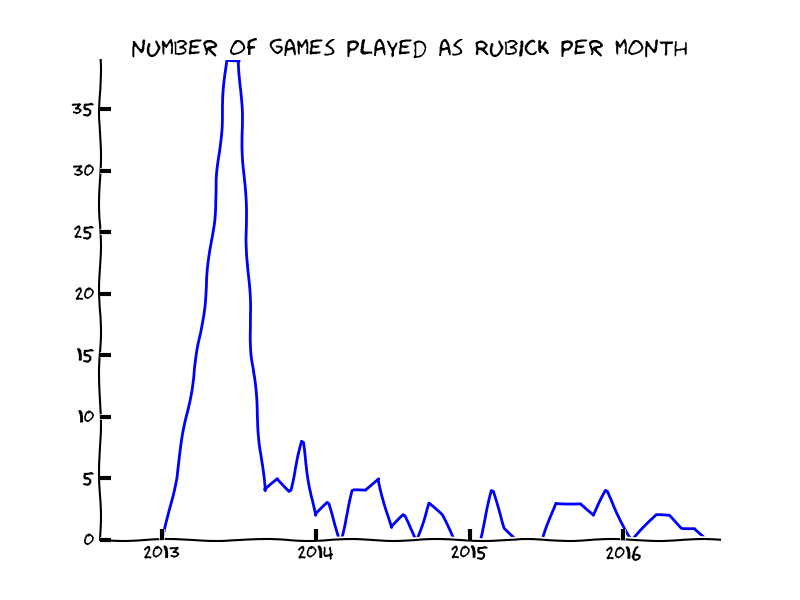
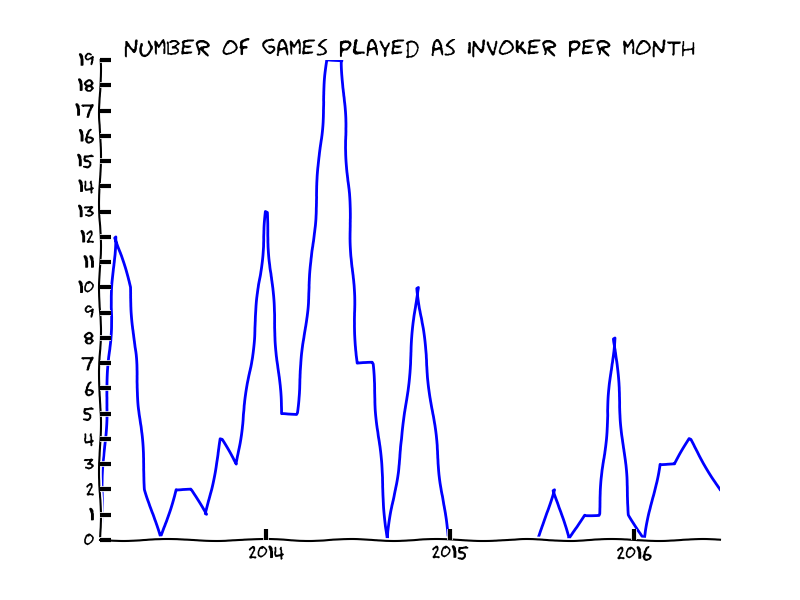
finish porting on yasp api

diff --git a/cogs/utils/stats_related.py b/cogs/utils/stats_related.py
@@ -37,23 +37,54 @@ def time_diff(start_time):
 
 
 def my_winrate_with_player_on(player_id1, player_id2, hero_id):
-        args = {
-                'players': {
-                    '$elemMatch': {"account_id": player_id2, "hero_id": hero_id}
-                },
-                'players.account_id': player_id1
-                }
-        hist = db.get_match_list(args)
-        k = 0
-        for i, game in enumerate(hist):
-            for j in range(10):
-                if game['players'][j]['account_id'] == player_id1:
-                    if game['radiant_win'] and j < 5 or (
-                            not game['radiant_win'] and j > 4):
-                        k += 1
+        matches = Player(player_id1).stat_func(
+                'matches',
+                included_account_id=player_id2,
+                with_hero_id=hero_id
+                )
+        all_matches = 0
+        won_matches = 0
+        position_list = [
+            '0',
+            '1',
+            '2',
+            '3',
+            '4',
+            '128',
+            '129',
+            '130',
+            '131',
+            '132'
+            ]
+        for match in matches:
+            for entry in position_list:
+                try:
+                    if (match['heroes'][entry]['account_id'] == player_id2 and
+                        match['heroes'][entry]['hero_id'] == hero_id):
+
+                        all_matches += 1
+                except KeyError:
+                    pass
+        hist2 = Player(player_id1).stat_func(
+                'matches',
+                included_account_id=player_id2,
+                with_hero_id=hero_id,
+                win=1
+                )
+
+        for match in hist2:
+            for entry in position_list:
+                try:
+                    if (match['heroes'][entry]['account_id'] == player_id2 and
+                        match['heroes'][entry]['hero_id'] == hero_id):
+
+                        won_matches += 1
+                except KeyError:
+                    pass
+
         try:
             return '{}% in {} matches'.format(
-                round(100*k/len(hist), 2), len(hist))
+                round(100*won_matches/all_matches, 2), all_matches)
         except ZeroDivisionError:
             return 'No matches found'
 

diff --git a/cogs/stats.py b/cogs/stats.py
@@ -86,13 +86,6 @@ class Stats:
         else:
             await self.bot.say('Invalid player name')
 
-    @commands.command(pass_context=True)################################
-    async def stats(self, ctx, games: int):
-        """Your average stats in last <n> games"""
-        player_id = db.get_acc_id(ctx.message.author.id, ctx.message.server.id)
-        reply = sf.avg_stats(player_id, games)
-        await self.bot.say(reply)
-
     @commands.command(pass_context=True)
     async def wr(self, ctx, *, hero_name):
         """Your winrate playing as a <hero_name>"""
@@ -127,7 +120,7 @@ class Stats:
         except ZeroDivisionError:
             await self.bot.say("No matches found.")
 
-    @commands.command(pass_context=True)###############
+    @commands.command(pass_context=True)
     async def wr_with_hero(self, ctx, player_name, *, hero_name):
         """Your winrate with <player> on specific <hero>"""
         player_id = db.get_acc_id(ctx.message.author.id, ctx.message.server.id)
@@ -144,15 +137,6 @@ class Stats:
             await self.bot.say(reply)
         else:
             await self.bot.say('Invalid player name')
-
-    @commands.command(pass_context=True)
-    async def avg(self, ctx, *, hero_name):
-        """Your average stats playing as a <hero_name>"""
-        player_id = db.get_acc_id(ctx.message.author.id, ctx.message.server.id)
-        hero_id = list(hero_dic.keys())[
-            list(hero_dic.values()).index(hero_name)]
-        reply = sf.avg_stats_with_hero(player_id, hero_id)
-        await self.bot.say(reply)
 
     @commands.command(pass_context=True)
     async def hero_graph(self, ctx, hero_name):
@@ -191,7 +175,7 @@ class Stats:
         stat_dic = collections.OrderedDict(stat_dic)
         if hero_name:
             try:
-                stat = "All-Time Records as {}:\n\n".format(hero_name[0])
+                stat = "All-Time Records as {}:".format(hero_name[0])
                 hero_id = list(hero_dic.keys())[
                     list(hero_dic.values()).index(hero_name[0])]
                 reply = Player(player_id).stat_func('records', hero_id=hero_id)

diff --git a/cogs/utils/hero_graph.py b/cogs/utils/hero_graph.py
@@ -2,15 +2,12 @@ import math
 import matplotlib.pyplot as plt
 from .hero_dictionary import hero_dic
 import matplotlib.dates as mdates
-from .resources import db
-
+from yasp_api.player import Player
 
 def hero_per_month(player_id, hero_id):
-    args = {
-                'players.account_id': player_id}
-    hist = db.get_match_list(args, sort=1)
+    hist = Player(player_id).stat_func('matches', hero_id=hero_id)
+    hist = hist[::-1]
     time = hist[0]['start_time']
-
     quantity = []
     kk = 0
     m = 0
@@ -19,15 +16,13 @@ def hero_per_month(player_id, hero_id):
     for i in hist:
 
         if i['start_time'] < time:
-            for j in range(10):
-                try:
-                    if i['players'][j]['account_id'] == player_id:
 
-                        if i['players'][j]['hero_id'] == hero_id:
-                            q += 1
-                            kk += 1
-                except:
-                        pass
+            try:
+                if i['hero_id'] == hero_id:
+                    q += 1
+                    kk += 1
+            except:
+                    pass
         else:
             time += 2592000
             quantity.append(q)

diff --git a/cogs/utils/misc.py b/cogs/utils/misc.py
@@ -4,15 +4,16 @@ from random import shuffle
 from .hero_dictionary import hero_dic
 from .resources import db
 from .post_game_screen import post_game_guess
+from yasp_api.matches import Match
+from yasp_api.player import Player
 
 def guessing_game(server):
     ids = db.get_all_ids_on_server(server)
     player_id = ids[randint(0, len(ids)-1)]
-    args = {
-                'players.account_id': player_id}
-    hist = db.get_match_list(args)
+    hist = Player(player_id).stat_func('matches')
     match_number = randint(0, len(hist)-1)
-    match = hist[match_number]
+    match_id = hist[match_number]['match_id']
+    match = Match(match_id).info()
     array3 = []
     game_type = "Solo."
     for i in range(10):
@@ -34,7 +35,7 @@ def guessing_game(server):
           player_index < 5 and match['radiant_win']
     ):
         game_status = game_type + ", ".join(array3)
-    hero_id = hist[match_number]['players'][player_index]['hero_id']
+    hero_id = match['players'][player_index]['hero_id']
     hero = hero_dic[hero_id]
     post_game_guess(match)
     return [hero, dic_reverse[player_id], game_status]

diff --git a/cogs/meta.py b/cogs/meta.py
@@ -5,7 +5,6 @@ import os
 from .utils.resources import db
 from csv import reader
 import shlex
-from parsing_utils.game_history_parser import history_parser
 from token_and_api_key import log_chat_id
 from cogs.utils.hero_dictionary import hero_dic
 
@@ -103,7 +102,7 @@ class Meta:
         else:
             await self.bot.say("Done!")
 
-    @commands.command()
+    @commands.command(hidden=True)
     async def patchnotes(self):
         """ ???"""
         with open('patchnotes.txt', 'r') as f:

diff --git a/bot.py b/bot.py
@@ -2,7 +2,6 @@ import discord
 from discord.ext import commands
 from token_and_api_key import token, client_id, log_chat_id
 import time
-from cogs.utils.resources import db
 import asyncio
 
 initial_extensions = (

diff --git a/cogs/game.py b/cogs/game.py
@@ -6,6 +6,7 @@ import json
 from .utils.resources import db
 import datetime
 
+
 class Game:
 
     def __init__(self, bot):
